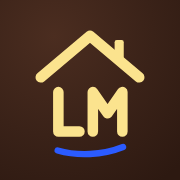
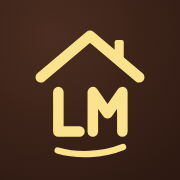
Uden blå: kun Butter Yellow og Dark Cocoa, kategorier i brune toner
Claude-Session: https://claude.ai/code/session_01KcUDN529GWyK5f9HkrUmeK

Changed region(s): [[0.3056, 0.7778, 0.7222, 0.8889]]

diff --git a/app/login/route.ts b/app/login/route.ts
@@ -32,15 +32,15 @@ export async function GET(req: Request) {
   * { box-sizing: border-box; }
   body { margin: 0; min-height: 100dvh; display: grid; place-items: center; padding: 16px; background: #fbe38e; color: #fbe38e;
     font-family: Poppins, ui-sans-serif, system-ui, -apple-system, "Segoe UI", sans-serif;
-    background-image: radial-gradient(40% 40% at 25% 20%, rgba(255,250,230,.7), transparent 70%), radial-gradient(40% 40% at 75% 85%, rgba(43,91,255,.14), transparent 70%); }
+    background-image: radial-gradient(40% 40% at 25% 20%, rgba(255,250,230,.7), transparent 70%), radial-gradient(40% 40% at 75% 85%, rgba(200,112,30,.16), transparent 70%); }
   main { width: 100%; max-width: 400px; background: #3a2218; border: 0; box-shadow: 0 24px 60px rgba(58,34,24,.25); border-radius: 28px; padding: 32px; }
   h1 { margin: 0 0 8px; font-family: Anton, "Arial Narrow", Impact, sans-serif; font-size: 2.6rem; font-weight: 400; text-transform: uppercase; letter-spacing: .005em; line-height: 1; }
-  .bar { display: block; width: 120px; height: 6px; border-radius: 6px; background: #2b5bff; margin: 0 0 18px; transform: rotate(-2deg); }
+  .bar { display: block; width: 120px; height: 6px; border-radius: 6px; background: #fbe38e; margin: 0 0 18px; transform: rotate(-2deg); }
   .sub { margin: 0 0 28px; color: #d2b88a; }
   label { display: block; font-size: .875rem; font-weight: 600; margin-bottom: 6px; }
   input { width: 100%; min-height: 52px; border-radius: 16px; border: 1px solid rgba(251,227,142,.18); background: #46291d; color: inherit; font-size: 1rem; padding: 0 16px; }
-  input:focus-visible, button:focus-visible { outline: 2px solid #2b5bff; outline-offset: 3px; }
-  .go { width: 100%; min-height: 52px; margin-top: 20px; border: 0; border-radius: 999px; background: #2b5bff; color: #ffffff; font-size: 1rem; font-weight: 700; cursor: pointer; }
+  input:focus-visible, button:focus-visible { outline: 2px solid #c8701e; outline-offset: 3px; }
+  .go { width: 100%; min-height: 52px; margin-top: 20px; border: 0; border-radius: 999px; background: #fbe38e; color: #3a2218; font-size: 1rem; font-weight: 700; cursor: pointer; }
   .field { position: relative; }
   .field input { padding-right: 56px; }
   .eye { position: absolute; right: 4px; top: 4px; width: 44px; height: 44px; display: grid; place-items: center; border: 0; border-radius: 12px; background: transparent; color: #d2b88a; cursor: pointer; -webkit-tap-highlight-color: transparent; }

diff --git a/app/globals.css b/app/globals.css
@@ -1,7 +1,7 @@
 @import "tailwindcss";
 
-/* ───────────── BUTTER, COCOA & ELECTRIC BLUE ─────────────
-   Lyng Mandal Kapital. 60 % Butter Yellow, 30 % Dark Cocoa, 10 % Electric Blue.
+/* ───────────── BUTTER & COCOA ─────────────
+   Lyng Mandal Kapital. Butter Yellow og Dark Cocoa, intet andet. Kategorierne skelnes med brune toner.
    Butter er standard. Cocoa, når man selv vælger mørk tilstand (data-theme="dark"). */
 :root {
   --bg: #fbe38e;
@@ -9,17 +9,17 @@
   --surface-2: #f3d46e;
   --ink: #3a2218;
   --muted: #6b4f3c;
-  --accent: #2b5bff;
-  --accent-text: #1e46db;
-  --blue: #2b5bff;
-  --caramel: #b5590f;
+  --accent: #3a2218;
+  --accent-text: #9a4a0c;
+  --choc: #8a5a3b;
+  --caramel: #c8701e;
   --home: #3a2218;
-  --cash: #8fa6ff;
-  --mint: #2f7a1f;
-  --coral: #c8361f;
+  --cash: #e0a83e;
+  --mint: #3f6b12;
+  --coral: #b8361f;
   --line: rgba(58, 34, 24, 0.14);
-  --on-accent: #ffffff;
-  --on-fill: #ffffff;
+  --on-accent: #fbe38e;
+  --on-fill: #fff3c4;
   --glow-a: rgba(255, 249, 226, 0.75);
   --glow-b: rgba(242, 196, 72, 0.45);
   --area: rgba(255, 249, 226, 0.95);
@@ -33,20 +33,20 @@
   --surface-2: #573423;
   --ink: #fbe38e;
   --muted: #d2b88a;
-  --accent: #2b5bff;
-  --accent-text: #93aaff;
-  --blue: #6b8cff;
-  --caramel: #f2a25c;
+  --accent: #fbe38e;
+  --accent-text: #f2a25c;
+  --choc: #b07a52;
+  --caramel: #ee8a3c;
   --home: #fbe38e;
-  --cash: #b9c8ff;
+  --cash: #d9b38c;
   --mint: #b6da74;
   --coral: #ff8a73;
   --line: rgba(251, 227, 142, 0.13);
-  --on-accent: #ffffff;
+  --on-accent: #3a2218;
   --on-fill: #3a2218;
-  --glow-a: rgba(43, 91, 255, 0.24);
+  --glow-a: rgba(242, 162, 92, 0.16);
   --glow-b: rgba(251, 227, 142, 0.07);
-  --area: rgba(43, 91, 255, 0.38);
+  --area: rgba(251, 227, 142, 0.22);
   --shadow: 0 10px 30px rgba(0, 0, 0, 0.3);
   color-scheme: dark;
 }
@@ -59,7 +59,7 @@
   --color-muted: var(--muted);
   --color-accent: var(--accent);
   --color-accent-text: var(--accent-text);
-  --color-blue: var(--blue);
+  --color-blue: var(--choc);
   --color-mint: var(--mint);
   --color-caramel: var(--caramel);
   --color-coral: var(--coral);

diff --git a/lib/variables.ts b/lib/variables.ts
@@ -31,7 +31,7 @@ const p0 = (v: number) => pct(v, 0);
 const md = (v: number) => `${kr(v)}/md.`;
 const mio = (v: number) => `${mioTal(v)} kr.`;
 
-const BLUE = "var(--blue)";
+const CHOC = "var(--choc)";
 const CARAMEL = "var(--caramel)";
 const MINT = "var(--mint)";
 const CORAL = "var(--coral)";
@@ -43,7 +43,7 @@ export const GROUPS: Group[] = [
     title: "Afkast og boligpriser",
     sub: "Hvad aktier, pension og boliger giver om året",
     fields: [
-      { key: "stockReturn", label: "Aktier om året", min: -0.02, max: 0.12, step: 0.005, fmt: p1, color: BLUE },
+      { key: "stockReturn", label: "Aktier om året", min: -0.02, max: 0.12, step: 0.005, fmt: p1, color: CHOC },
       { key: "pensionReturn", label: "Pension om året", min: 0, max: 0.08, step: 0.005, fmt: p1, color: CARAMEL },
       {
         key: "apartmentGrowth", label: "Lejlighedens priser frem til salget", min: -0.05, max: 0.12, step: 0.005, fmt: p1, color: MINT,
@@ -88,7 +88,7 @@ export const GROUPS: Group[] = [
     sub: "Det, vi selv sætter ind hver måned",
     fields: [
       { key: "salaryGrowth", label: "Lønstigning om året", min: 0, max: 0.06, step: 0.0025, nudge: 0.005, fmt: p2, hint: "Hæver pension og Nordnet i samme takt." },
-      { key: "nordnetEmil", label: "Emil til Nordnet", min: 0, max: 15_000, step: 500, fmt: md, color: BLUE },
+      { key: "nordnetEmil", label: "Emil til Nordnet", min: 0, max: 15_000, step: 500, fmt: md, color: CHOC },
       { key: "nordnetFrederikke", label: "Frederikke til Nordnet", min: 0, max: 15_000, step: 500, fmt: md, color: CARAMEL },
       {
         key: "nordnetCutAfterMove", label: "Mindre i Nordnet efter flytningen", min: -3_000, max: 6_000, step: 100, fmt: md,
@@ -103,7 +103,7 @@ export const GROUPS: Group[] = [
     title: "Pension",
     sub: "Indbetalt via lønnen hver måned",
     fields: [
-      { key: "pensionEmil", label: "Emil", min: 0, max: 20_000, step: 1, nudge: 250, fmt: md, color: BLUE },
+      { key: "pensionEmil", label: "Emil", min: 0, max: 20_000, step: 1, nudge: 250, fmt: md, color: CHOC },
       { key: "pensionFrederikke", label: "Frederikke", min: 0, max: 20_000, step: 1, nudge: 250, fmt: md, color: CARAMEL },
     ],
   },

diff --git a/components/whatif/WhatIfBar.tsx b/components/whatif/WhatIfBar.tsx
@@ -311,14 +311,14 @@ export function WhatIfBar() {
               )}
               {open === "returns" && (
                 <div className="space-y-5">
-                  <Range label="Aktier om året" value={d.stockReturn} min={0.02} max={0.12} step={0.005} onChange={(v) => sc.set("stockReturn", v)} display={pct(d.stockReturn, 1)} color="var(--blue)" />
+                  <Range label="Aktier om året" value={d.stockReturn} min={0.02} max={0.12} step={0.005} onChange={(v) => sc.set("stockReturn", v)} display={pct(d.stockReturn, 1)} color="var(--choc)" />
                   <Range label="Pension om året" value={d.pensionReturn} min={0.01} max={0.07} step={0.005} onChange={(v) => sc.set("pensionReturn", v)} display={pct(d.pensionReturn, 1)} color="var(--caramel)" />
                   <Range label="Huspriser om året, efter købet" value={d.houseGrowth} min={0} max={0.07} step={0.005} onChange={(v) => sc.set("houseGrowth", v)} display={pct(d.houseGrowth, 1)} color="var(--mint)" />
                 </div>
               )}
               {open === "saving" && (
                 <div className="space-y-5">
-                  <Range label="Emil pr. måned" value={d.nordnetEmil} min={0} max={15_000} step={500} onChange={(v) => sc.set("nordnetEmil", v)} display={kr(d.nordnetEmil)} color="var(--blue)" />
+                  <Range label="Emil pr. måned" value={d.nordnetEmil} min={0} max={15_000} step={500} onChange={(v) => sc.set("nordnetEmil", v)} display={kr(d.nordnetEmil)} color="var(--choc)" />
                   <Range label="Frederikke pr. måned" value={d.nordnetFrederikke} min={0} max={15_000} step={500} onChange={(v) => sc.set("nordnetFrederikke", v)} display={kr(d.nordnetFrederikke)} color="var(--caramel)" />
                   <p className="text-sm text-muted">
                     {effectiveCut(d) >= 0 ? `Efter flytningen trækkes ${kr(effectiveCut(d))} fra hos hver, fordi huset koster mere.` : `Efter flytningen kan hver sætte ${kr(-effectiveCut(d))} mere ind, fordi huset er billigere.`}

diff --git a/components/person/PersonView.tsx b/components/person/PersonView.tsx
@@ -15,7 +15,7 @@ type Who = "emil" | "frederikke";
 type Line = { label: string; value: number; note?: string };
 type Block = { id: string; title: string; color: string; lines: Line[]; total: { label: string; value: number } };
 
-const COLOR: Record<Who, string> = { emil: "var(--blue)", frederikke: "var(--caramel)" };
+const COLOR: Record<Who, string> = { emil: "var(--choc)", frederikke: "var(--caramel)" };
 
 /** Opgørelsen for én person i ét år. Alle tal kommer fra regnemotoren, og summen er præcis den samme som motorens. */
 export function blocks(r: YearRow, who: Who): Block[] {
@@ -39,7 +39,7 @@ export function blocks(r: YearRow, who: Who): Block[] {
 
   return [
     { id: "bolig", title: "Boligen", color: "var(--home)", lines: bolig, total: { label: "Din del af friværdien", value: p.equityShare } },
-    { id: "aktier", title: "Aktier", color: "var(--blue)", lines: aktier, total: { label: "Aktier efter skat", value: p.stocksNet } },
+    { id: "aktier", title: "Aktier", color: "var(--choc)", lines: aktier, total: { label: "Aktier efter skat", value: p.stocksNet } },
     { id: "konti", title: "Konti og gæld", color: "var(--cash)", lines: konti, total: { label: "I alt", value: p.cash + p.kontoShare - p.suLoan } },
   ];
 }
@@ -77,7 +77,7 @@ export function PersonView({ who }: { who: Who }) {
   // Sammensætningen som én bjælke. Negative poster (fx SU-lån) står i opgørelsen.
   const parts = [
     { label: "Bolig", value: p.equityShare, color: "var(--home)" },
-    { label: "Aktier", value: p.stocksNet, color: "var(--blue)" },
+    { label: "Aktier", value: p.stocksNet, color: "var(--choc)" },
     { label: "Konti", value: p.cash + p.kontoShare, color: "var(--cash)" },
     { label: "Pension", value: p.pension, color: "var(--caramel)" },
   ];

diff --git a/components/home/Stocks.tsx b/components/home/Stocks.tsx
@@ -32,8 +32,8 @@ function build(rows: YearRow[]): Datum[] {
 }
 
 const PARTS = [
-  { key: "own", label: "Indbetalt", color: "var(--blue)", opacity: 1 },
-  { key: "sale", label: "Fra boligsalget", color: "var(--blue)", opacity: 0.55 },
+  { key: "own", label: "Indbetalt", color: "var(--choc)", opacity: 1 },
+  { key: "sale", label: "Fra boligsalget", color: "var(--choc)", opacity: 0.55 },
   { key: "gainNet", label: "Afkast efter skat", color: "var(--mint)", opacity: 1 },
   { key: "tax", label: "Skat hvis solgt", color: "var(--coral)", opacity: 1 },
 ] as const;
@@ -111,7 +111,7 @@ function AskCompare() {
   const r = askVsDepot(amount, 0.07, years);
   const rows = [
     { label: "Aktiesparekonto", sub: "17 % af årets afkast", v: r.ask, color: "var(--mint)" },
-    { label: "Frit depot, 27 %", sub: "gevinst under 79.400 kr.", v: r.depotLow, color: "var(--blue)" },
+    { label: "Frit depot, 27 %", sub: "gevinst under 79.400 kr.", v: r.depotLow, color: "var(--choc)" },
     { label: "Frit depot, 42 %", sub: "gevinst over 79.400 kr.", v: r.depotHigh, color: "var(--coral)" },
   ];
   const cap = taxRules2026.aktiesparekonto;
@@ -173,7 +173,7 @@ export function Stocks() {
         </div>
         <div className="card p-6">
           <p className="eyebrow">Oktober {d.year} · efter skat</p>
-          <p className="fig mt-1 text-[clamp(1.9rem,6.5vw,2.75rem)] leading-none" style={{ color: "var(--blue)" }}>
+          <p className="fig mt-1 text-[clamp(1.9rem,6.5vw,2.75rem)] leading-none" style={{ color: "var(--choc)" }}>
             <Ticker value={d.net} />
           </p>
           <dl className="mt-5 space-y-2 text-sm">

diff --git a/components/home/GrowthSources.tsx b/components/home/GrowthSources.tsx
@@ -10,8 +10,8 @@ export function GrowthSources() {
   const p = g.parts;
   const steps: Step[] = [
     { label: "Formue i dag", value: g.start, kind: "total", color: "var(--muted)" },
-    { label: "Indbetalt på Nordnet", value: p.stocksIn, kind: "delta", color: "var(--blue)" },
-    { label: "Afkast på aktier", value: p.stocksReturn, kind: "delta", color: "var(--blue)" },
+    { label: "Indbetalt på Nordnet", value: p.stocksIn, kind: "delta", color: "var(--choc)" },
+    { label: "Afkast på aktier", value: p.stocksReturn, kind: "delta", color: "var(--choc)" },
     { label: sim.events.some((e) => e.tax > 0.5) ? "Skat på aktierne" : "Skat, hvis aktierne sælges", value: p.taxIfSold, kind: "delta" },
     { label: "Indbetalt til pension", value: p.pensionIn, kind: "delta", color: "var(--caramel)" },
     { label: "Afkast på pension", value: p.pensionReturn, kind: "delta", color: "var(--caramel)" },
@@ -29,7 +29,7 @@ export function GrowthSources() {
   const loans = sim.events.filter((e) => e.pay === "laan");
 
   const cards = [
-    { k: "Det vi selv sætter ind", v: own, c: "var(--blue)", t: "Nordnet, pension og afdrag." },
+    { k: "Det vi selv sætter ind", v: own, c: "var(--choc)", t: "Nordnet, pension og afdrag." },
     { k: "Det pengene tjener", v: earned, c: "var(--mint)", t: "Afkast på aktier og pension, og husets værdistigning." },
     {
       k: "Det koster", v: cost, c: "var(--coral)",

diff --git a/components/home/Sticker.tsx b/components/home/Sticker.tsx
@@ -11,13 +11,13 @@ export function Sticker({ value }: { value: number }) {
         </defs>
         <circle cx="100" cy="100" r="98" fill="var(--accent)" />
         <g className="sticker-spin">
-          <text fontFamily="var(--font-mono)" fontWeight="500" fontSize="17" fill="#ffffff" letterSpacing="2">
+          <text fontFamily="var(--font-mono)" fontWeight="500" fontSize="17" fill="var(--on-accent)" letterSpacing="2">
             <textPath href="#sticker-ring" textLength="462" lengthAdjust="spacing">
               VÆKST OM ÅRET · FREM TIL 2035 ·
             </textPath>
           </text>
         </g>
-        <text x="100" y="116" textAnchor="middle" fontFamily="var(--font-display)" fontSize="46" fill="#ffffff">
+        <text x="100" y="116" textAnchor="middle" fontFamily="var(--font-display)" fontSize="46" fill="var(--on-accent)">
           {text.replace(" %", "%")}
         </text>
       </svg>

diff --git a/components/home/Peers.tsx b/components/home/Peers.tsx
@@ -86,7 +86,7 @@ export function Peers() {
         <Segmented options={[{ value: "nu", label: "I dag" }, { value: "2031", label: "2031 (skøn)" }]} value={when} onChange={setWhen} label="Tidspunkt" />
       </div>
       <div className="grid grid-cols-1 gap-4 lg:grid-cols-2">
-        <Strip name="Emil" age={e.age} wealth={now ? peers.emil.ourWealth : peers.projection2031.emil.wealth} marks={e} placement={e.placement} color="var(--blue)" />
+        <Strip name="Emil" age={e.age} wealth={now ? peers.emil.ourWealth : peers.projection2031.emil.wealth} marks={e} placement={e.placement} color="var(--choc)" />
         <Strip name="Frederikke" age={f.age} wealth={now ? peers.frederikke.ourWealth : peers.projection2031.frederikke.wealth} marks={f} placement={f.placement} color="var(--caramel)" />
       </div>
       <p className="mt-4 max-w-3xl text-xs text-muted">

diff --git a/components/lab/Compare.tsx b/components/lab/Compare.tsx
@@ -23,7 +23,7 @@ const PRESETS: { id: string; name: string; note: string; color: string; over: Pa
   { id: "god", name: "God", note: "Aktier 9 %, huse 4,5 %, pension 5 %", color: "var(--mint)", over: { houseGrowth: 0.045, stockReturn: 0.09, pensionReturn: 0.05 } },
   { id: "nykredit", name: "Nykredit-optimistisk", note: "Lejligheden stiger 2,5 % om året til salget, hus til 7,1 mio.", color: "var(--caramel)", over: { apartmentGrowth: 0.025, housePrice: 7_100_000 } },
 ];
-const SAVED_COLOR = "var(--blue)";
+const SAVED_COLOR = "var(--choc)";
 
 export function Compare({ year, setYear, withPension, setWithPension }: {
   year: number; setYear: (y: number) => void; withPension: boolean; setWithPension: (v: boolean) => void;

diff --git a/components/Logo.tsx b/components/Logo.tsx
@@ -7,7 +7,7 @@ export function Logo({ size = 30 }: { size?: number }) {
         <path d="M116 238L256 120L396 238" fill="none" stroke="#fbe38e" strokeWidth="30" strokeLinecap="round" strokeLinejoin="round" />
         <rect x="326" y="132" width="26" height="54" rx="6" fill="#fbe38e" />
         <path d="M166 280V392H226M264 392V280L306 340L348 280V392" fill="none" stroke="#fbe38e" strokeWidth="30" strokeLinecap="round" strokeLinejoin="round" />
-        <path d="M164 446C220 462 290 460 350 436" fill="none" stroke="#2b5bff" strokeWidth="22" strokeLinecap="round" />
+        <path d="M164 446C220 462 290 460 350 436" fill="none" stroke="#fbe38e" strokeWidth="22" strokeLinecap="round" />
       </g>
     </svg>
   );

diff --git a/components/home/Pension.tsx b/components/home/Pension.tsx
@@ -17,7 +17,7 @@ export function Pension() {
   const t = row.flowsTotal;
   const maxV = Math.max(rows[N].emil.pension, rows[N].frederikke.pension) * 1.06;
   const vessels = [
-    { name: "Emil", v: row.emil.pension, start: rows[0].emil.pension, color: "var(--blue)", monthly: people.emil.pensionMonthly },
+    { name: "Emil", v: row.emil.pension, start: rows[0].emil.pension, color: "var(--choc)", monthly: people.emil.pensionMonthly },
     { name: "Frederikke", v: row.frederikke.pension, start: rows[0].frederikke.pension, color: "var(--caramel)", monthly: people.frederikke.pensionMonthly },
   ];
 
